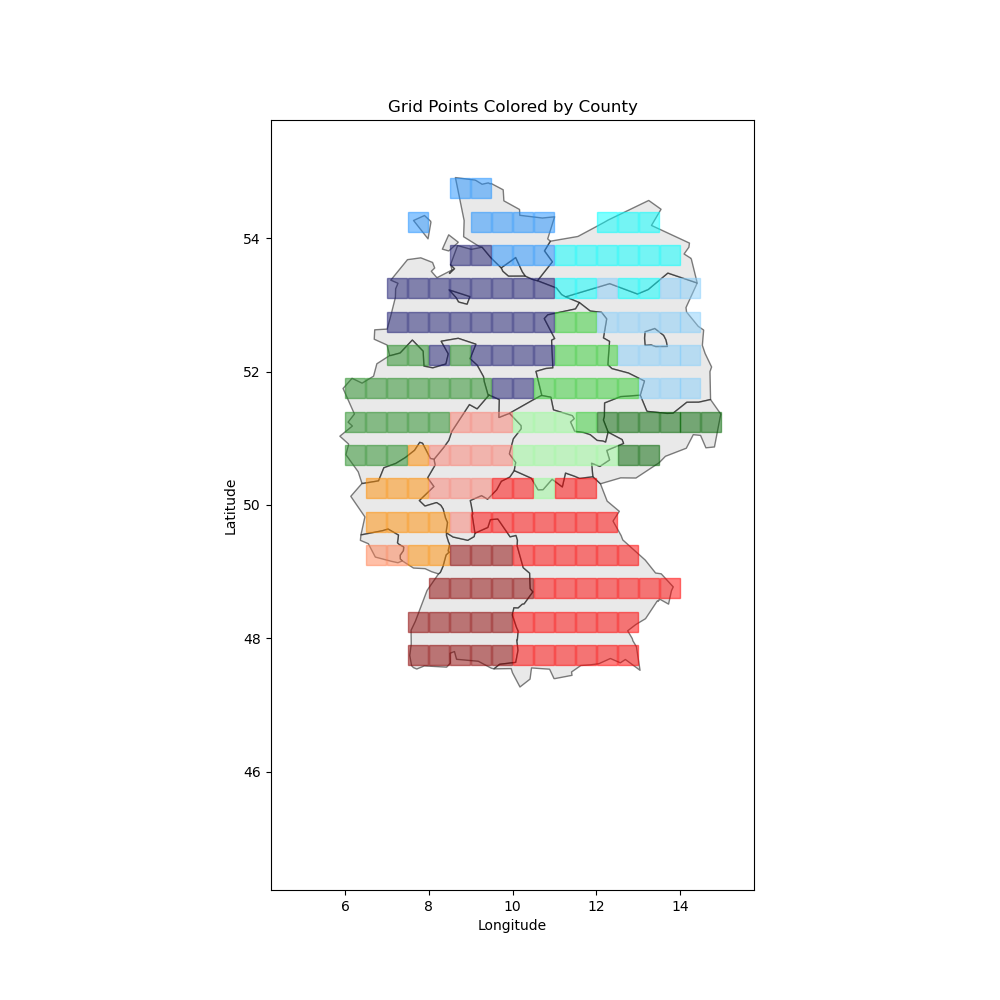
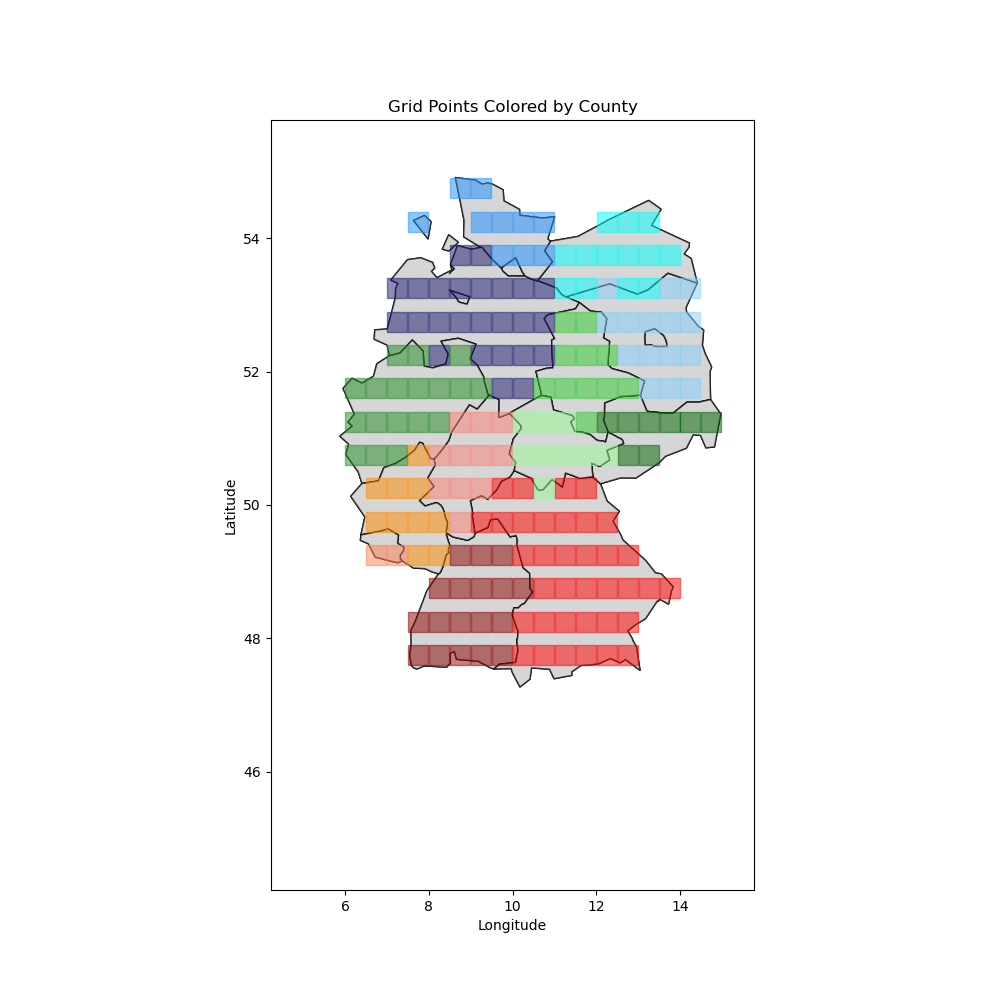
changes

diff --git a/crop_yield/test.py b/crop_yield/test.py
@@ -1,105 +1,29 @@
-import geopandas as gpd
-from shapely.geometry import Point
-import numpy as np
-import netCDF4 as nc
-import matplotlib.pyplot as plt
-from mpl_toolkits.basemap import Basemap
+cmap = mpl.colors.ListedColormap(county_colors)
+bounds = np.arange(len(county_colors) + 1)
+norm = mpl.colors.BoundaryNorm(bounds, cmap.N)
 
-# Load the geometries of German counties
-crops_counties = gpd.read_file("data/crop_yield/crop_yield_DE.shp")
-crops_counties = crops_counties.to_crs(epsg=4326)
-
-# Open the NetCDF file
-precipitation_file = "data/total_precipitation/tp.daily.calc.era5.0d50_CentralEurope.2000.nc"
-nc_file = nc.Dataset(precipitation_file)
-
-lon = nc_file.variables['lon'][:]
-lat = nc_file.variables['lat'][:]
-
-# Create a grid of lon-lat combinations
-lon_grid, lat_grid = np.meshgrid(lon, lat)
-lon_flat, lat_flat = lon_grid.flatten(), lat_grid.flatten()
-
-# Create a GeoDataFrame with Point objects for each lon-lat combination
-grid_gdf = gpd.GeoDataFrame(geometry=[Point(lon_val, lat_val) for lon_val, lat_val in zip(lon_flat, lat_flat)], crs='EPSG:4326')
-grid_gdf.to_crs(crops_counties.crs, inplace=True)
-
-# Define a function to find the matching county for each point
-def find_matching_county(point):
-    for index, county_geometry in crops_counties.geometry.items():
-        if point.within(county_geometry):
-            return crops_counties.loc[index, 'NUTS_ID']  # Return the NUTS_ID of the matching county
-
-# Create an empty list to store the results
-grid_polygons = []
-
-# Iterate over each grid cell center point
-for index, center_point in grid_gdf.iterrows():
-    found_match = False  # Flag to indicate if a match is found
-    # Iterate over each county polygon
-    for index, county_geometry in crops_counties.geometry.items():
-        # Check if the center point is within the county polygon
-        if center_point.geometry.within(county_geometry):
-            # If it is, append the county polygon to the list of grid polygons
-            grid_polygons.append((center_point.geometry.x, center_point.geometry.y, county_geometry))
-            found_match = True  # Set the flag to True
-            break  # Exit the loop once a matching polygon is found
-    if not found_match:
-        print(f"No matching polygon found for grid cell center point Lon: {center_point.geometry.x}, Lat: {center_point.geometry.y}")
-
-# Plot the polygons
-crops_counties.plot(color='lightgrey', edgecolor='black', alpha=0.5, figsize=(10, 10))
-
-import dictionary_states as ds
+# Create an empty 2D array for the grid data
+grid_data = np.zeros((len(lat), len(lon)))
 
 # Plot the points with colors corresponding to the counties
 for index, row in grid_gdf.iterrows():
     point = row['geometry']
     county = find_matching_county(point)  # Find the corresponding county for each point
-    color = ds.colors.get(county, 'grey')  # Get the color for the county, default to grey if not found
-    plt.plot(point.x, point.y, marker='s', markersize= 15, color=color, alpha = 0.5)
+    color = ds.colors.get(county, 'none')  # Get the color for the county, default to grey if not found
+    plt.plot(point.x, point.y, marker='s', markersize= 15, color=color, alpha=0.5)
+
+# Plot the grid cells with colors corresponding to the counties
+plt.imshow(grid_data, extent=[lon.min(), lon.max(), lat.min(), lat.max()], cmap=cmap, norm=norm)
+
+# Add a colorbar to show the correspondence between colors and counties
+cb = plt.colorbar(plt.cm.ScalarMappable(norm=norm, cmap=cmap), ticks=np.arange(len(county_colors)))
+cb.ax.set_yticklabels(ds.counties.values())
+cb.set_label('Counties')
+
+# Add grid lines
+plt.grid(True)
 
 plt.xlabel('Longitude')
 plt.ylabel('Latitude')
-plt.title('Grid Points Colored by County')
-plt.show()
-
-
-# Load the geometries of German counties
-crops_counties = gpd.read_file("data/crop_yield/crop_yield_DE.shp")
-crops_counties = crops_counties.to_crs(epsg=3035)  # Change to a projected CRS (Equal Earth)
-
-# Create a grid of lon-lat combinations
-lon, lat = np.meshgrid(np.linspace(crops_counties.total_bounds[0], crops_counties.total_bounds[2], 100),
-                       np.linspace(crops_counties.total_bounds[1], crops_counties.total_bounds[3], 100))
-
-# Create a GeoDataFrame with Point objects for each lon-lat combination
-grid_gdf = gpd.GeoDataFrame(geometry=[Point(lon_val, lat_val) for lon_val, lat_val in zip(lon.flatten(), lat.flatten())],
-                             crs='EPSG:4326')  # Use EPSG:4326 for lon-lat points
-
-# Project the grid points to the same CRS as the counties
-grid_gdf = grid_gdf.to_crs(crops_counties.crs)
-
-# Create a Basemap instance
-m = Basemap(projection='cyl', llcrnrlon=crops_counties.total_bounds[0], llcrnrlat=crops_counties.total_bounds[1],
-            urcrnrlon=crops_counties.total_bounds[2], urcrnrlat=crops_counties.total_bounds[3], resolution='l')
-
-# Plot the basemap
-m.drawcountries(linewidth=0.5)
-m.drawcoastlines(linewidth=0.5)
-
-# Plot the grid points with colors corresponding to the counties
-for index, row in grid_gdf.iterrows():
-    point = row['geometry']
-    color = 'grey'  # Default color if county not found
-    for _, county in crops_counties.iterrows():
-        if point.within(county.geometry):
-            color = 'r'  # Set color based on county
-            break
-    x, y = m(point.x, point.y)
-    m.scatter(x, y, color=color, s=10)
-
-plt.xlabel('Longitude')
-plt.ylabel('Latitude')
-plt.title('Grid Points Colored by County')
+plt.title('Grid Cells Colored by County')
 plt.show()

diff --git a/crop_yield/spatial_analysis.py b/crop_yield/spatial_analysis.py
@@ -40,7 +40,6 @@ grid_polygons = []
 # Iterate over each grid cell center point
 for index, center_point in grid_gdf.iterrows():
     found_match = False  # Flag to indicate if a match is found
-    # Iterate over each county polygon
     for index, county_geometry in crops_counties.geometry.items():
         # Check if the center point is within the county polygon
         if center_point.geometry.within(county_geometry):
@@ -79,6 +78,86 @@ plt.show()
 #}
 #grid_df = pd.DataFrame(data)
 
+# Open the NetCDF file
+precipitation_file = "data/total_precipitation/tp.daily.calc.era5.0d50_CentralEurope.2000.nc"
+nc_file = nc.Dataset(precipitation_file)
+
+lon = nc_file.variables['lon'][:]
+lat = nc_file.variables['lat'][:]
+
+# Create a grid of lon-lat combinations
+lon_grid, lat_grid = np.meshgrid(lon, lat)
+lon_flat, lat_flat = lon_grid.flatten(), lat_grid.flatten()
+
+# Create a GeoDataFrame with Point objects for each lon-lat combination
+grid_gdf = gpd.GeoDataFrame(geometry=[Point(lon_val, lat_val) for lon_val, lat_val in zip(lon_flat, lat_flat)], crs='EPSG:4326')
+grid_gdf.to_crs(crops_counties.crs, inplace=True)
+
+#like this there is just a geometry column in the grid_gdf now I need to append the year values of the water stress index.
+
+# Iterate over each year
+for year in range(2000, 2022):
+    # Extract the water stress index for the current year from the NetCDF file
+    water_stress_index = nc_file.variables[f'WSI_{year}'][:]  # Replace 'water_stress_index' with the actual variable name
+    
+    # Add the water stress index as a new column to the GeoDataFrame
+    grid_gdf[f'WSI_{year}'] = water_stress_index.flatten()
+
+# Close the NetCDF file
+nc_file.close()
+
+# Load the geometries of German counties
+crops_counties = gpd.read_file("data/crop_yield/crop_yield_DE.shp")
+crops_counties = crops_counties.to_crs(epsg=4326)
+
+# Define a function to find the matching county for each point
+def find_matching_county(point):
+    for index, county_geometry in crops_counties.geometry.items():
+        if point.within(county_geometry):
+            return crops_counties.loc[index, 'NUTS_ID']  # Return the NUTS_ID of the matching county
+
+# Create an empty dictionary to store the mean soil moisture values for each county and each year
+county_mean_WSI = {county: {str(year): [] for year in range(2000, 2022)} for county in crops_counties['NUTS_ID']}
+
+# Iterate over each year
+for year in range(2000, 2022):
+    # Iterate over each grid cell center point for the current year
+    for index, center_point in grid_gdf.iterrows():
+        found_match = False  # Flag to indicate if a match is found
+        # Iterate over each county polygon
+        for index, county_geometry in crops_counties.geometry.items():
+            # Check if the center point is within the county polygon
+            if center_point.geometry.within(county_geometry):
+                # If it is, append the soil moisture value to the corresponding county and year
+                county_name = crops_counties.loc[index, 'NUTS_ID']
+                WSI_value = center_point['year'] # Replace ... with your method to retrieve soil moisture value for the grid point
+                WSI_value[county_name][str(year)].append(WSI_value)
+                found_match = True  # Set the flag to True
+                break  # Exit the loop once a matching polygon is found
+        if not found_match:
+            print(f"No matching polygon found for grid cell center point Lon: {center_point.geometry.x}, Lat: {center_point.geometry.y}")
+
+# Calculate the mean soil moisture value for each county for each year
+for county_name, year_values in county_mean_WSI.items():
+    for year, WSI_values in year_values.items():
+        mean_WSI = np.mean(WSI_values)
+        county_mean_WSI[county_name][year] = mean_WSI
+
+# Convert the dictionary to a DataFrame
+mean_WSI_df = pd.DataFrame(county_mean_WSI).T
+
+# Merge the mean soil moisture values with the crops_counties GeoDataFrame
+crops_counties_with_WSI = crops_counties.merge(mean_WSI_df, left_on='NUTS_ID', right_index=True, how='left') 
+
+# Plot the polygons
+crops_counties_with_WSI.plot(column='2000', cmap='viridis', edgecolor='black', alpha=0.5, legend=True, figsize=(10, 10))
+plt.xlabel('Longitude')
+plt.ylabel('Latitude')
+plt.title('Mean Soil Moisture by County for Year 2000')
+plt.savefig('crop_yield/Figures/mean_WSI_by_county_2000.png', transparent=True)
+plt.show()
+
+
 # Create an empty list to store the grid cell center points
 grid_centerpoints = []
 
@@ -106,3 +185,4 @@ for county_name, soil_moisture_values in soil_moisture_by_county.items():
 
 # Print the crops_counties GeoDataFrame with soil moisture values
 print(crops_counties)
+print(crops_counties.head())   

diff --git a/crop_yield/detrending.py b/crop_yield/detrending.py
@@ -5,6 +5,7 @@ import matplotlib.pyplot as plt
 from sklearn.linear_model import LinearRegression
 from pandas import DataFrame
 import geopandas as gpd
+from shapely import wkt
 
 # Read the data
 data = pd.read_csv("filtered_data.csv")
@@ -105,8 +106,9 @@ detrended_data.columns = data.columns[3:26]
 detrended_data = pd.concat([data.iloc[:, :3], detrended_data], axis=1)
 
 detrended_data.to_csv('crop_yield/detrended_data.csv', index=False)
-# Creating a GeoDataFrame
-gdf = gpd.GeoDataFrame(detrended_data, geometry=geometry)
+# Convert geometry strings to Shapely geometry objects
+detrended_data['geometry'] = detrended_data['geometry'].apply(wkt.loads)
+gdf = gpd.GeoDataFrame(detrended_data)
 
 # Exporting as shapefile
 gdf.to_file("data/crop_yield/crop_yield_DE_detrended_filtered.shp", driver='ESRI Shapefile')

diff --git a/crop_yield/variable_importance.py b/crop_yield/variable_importance.py
@@ -1,0 +1,15 @@
+from autogluon.tabular import TabularDataset, TabularPredictor
+
+# Load your data
+train_data = TabularDataset('train.csv')
+
+# Define your predictor
+predictor = TabularPredictor(label='target').fit(train_data)
+
+# Get feature importance
+feature_importance = predictor.feature_importance()
+
+# Get SHAP values
+shap_values = predictor.get_shap_values(train_data)
+
+# Further analysis with feature importance or SHAP values
